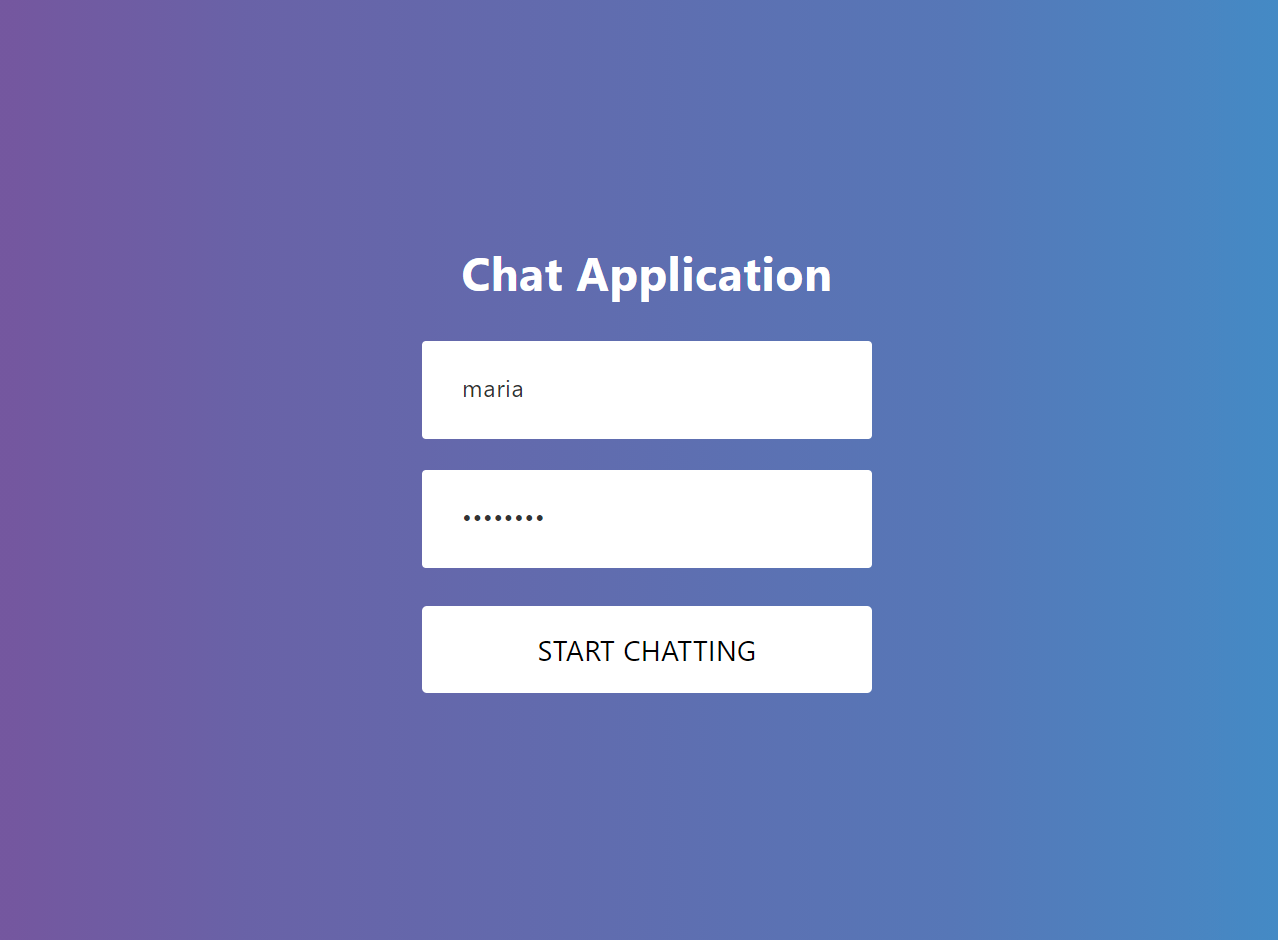
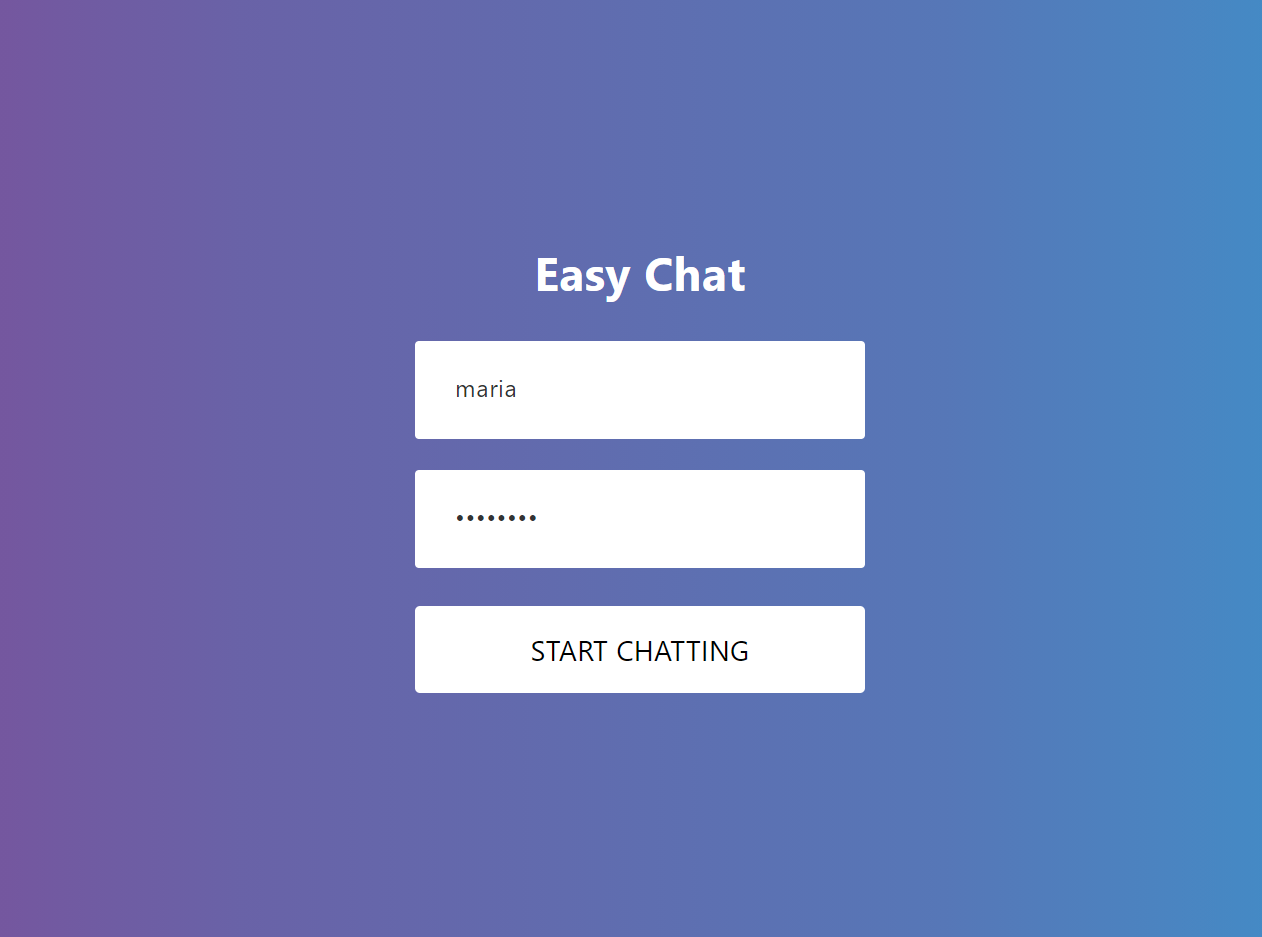
Hot fix

diff --git a/src/components/LoginForm.jsx b/src/components/LoginForm.jsx
@@ -29,7 +29,7 @@ const LoginForm = () => {
   return (
     <div className="wrapper">
       <div className="form">
-        <h1 className="title">Chat Application</h1>
+        <h1 className="title">Easy Chat</h1>
         <form onSubmit={handleSubmit}>
           <input type="text" value={username} onChange={(e) => setUsername(e.target.value)} className="input" placeholder="Username" required />
           <input type="password" value={password} onChange={(e) => setPassword(e.target.value)} className="input" placeholder="Password" required />

diff --git a/README.md b/README.md
@@ -6,7 +6,7 @@ Login Page:
 
 ![Login Page](https://raw.githubusercontent.com/vincent7hu/easy-chat/main/Login_page.png)
 
-App Chat Feed
+App Chat Feed:
 
 ![Chat Feed and UI](https://raw.githubusercontent.com/vincent7hu/easy-chat/main/Chat_feed.png)
 
